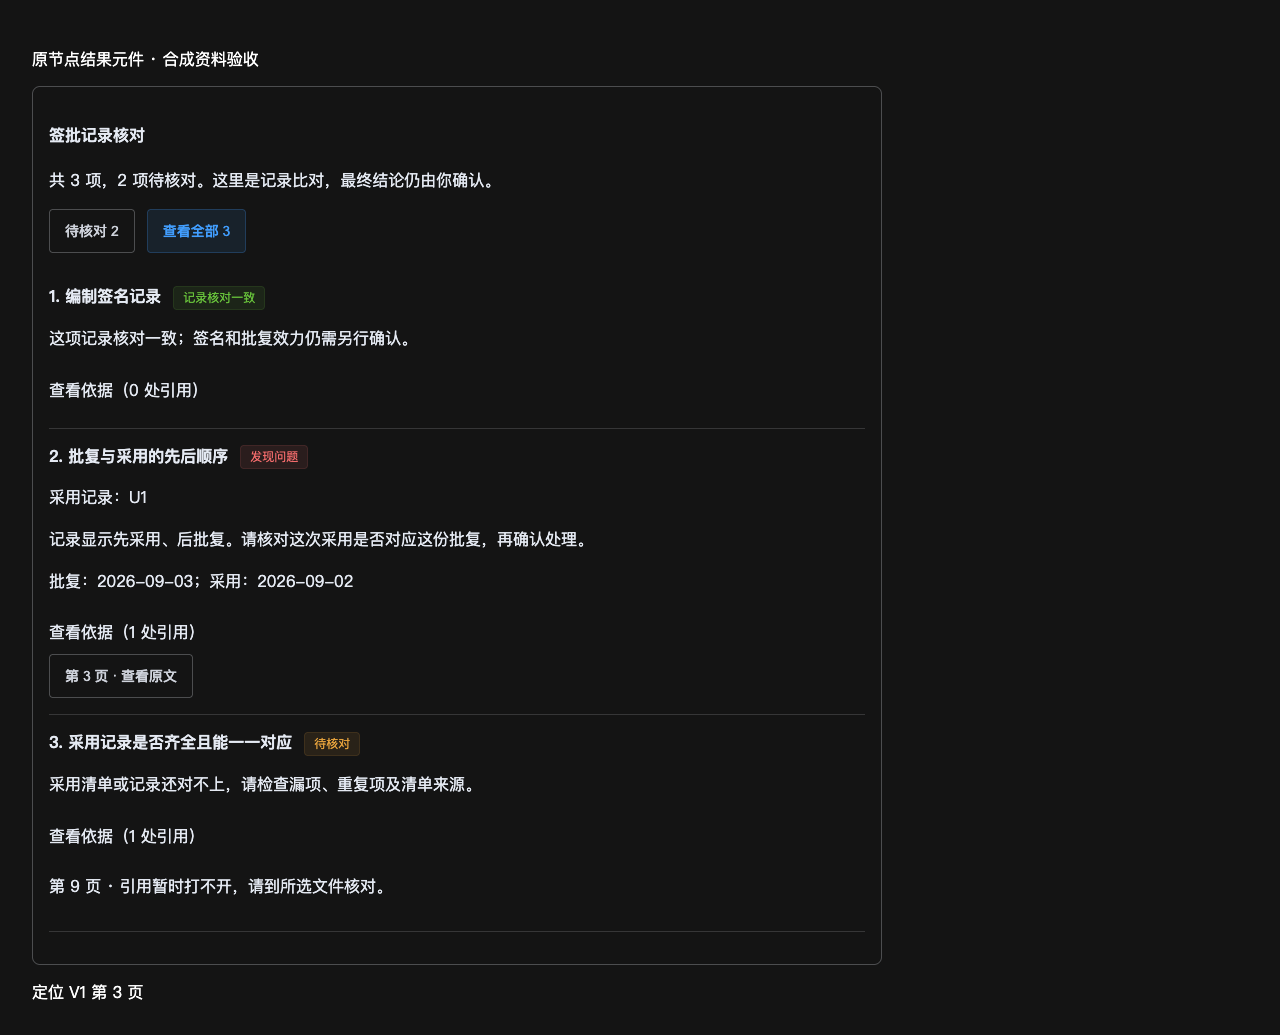
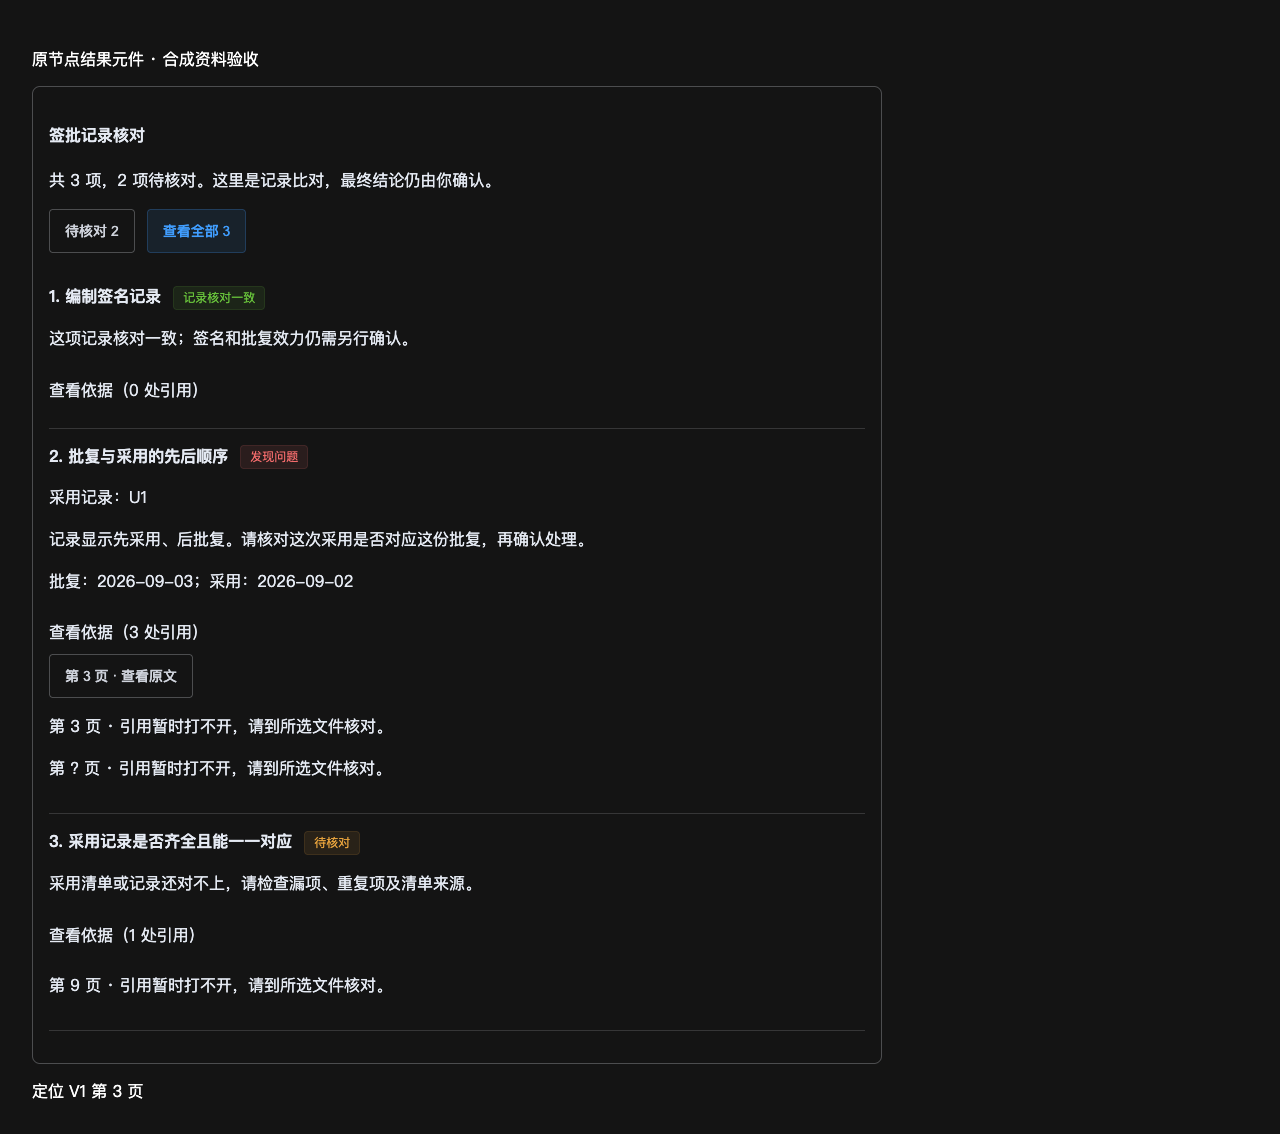
fix(lab): reject conflicting evidence locations and verify approval API projection

Changed region(s): [[0.0312, 0.0309, 0.4688, 0.8966], [0.0312, 0.9275, 0.125, 0.9894]]

diff --git a/frontend/src/views/AIReviewB/projectAnalysisConversation.ts b/frontend/src/views/AIReviewB/projectAnalysisConversation.ts
@@ -62,17 +62,26 @@ export const resolveProjectAnalysisEvidenceLink = (
   evidence: Record<string, unknown>,
   evidenceLinks: EvidenceLink[]
 ) => {
-  const evidenceLinkId = String(evidence.evidenceLinkId || '')
-  if (evidenceLinkId) {
-    const exactIdMatches = evidenceLinks.filter((item) => item.id === evidenceLinkId)
-    return exactIdMatches.length === 1 ? exactIdMatches[0] : undefined
-  }
-
-  const fileId = String(evidence.fileId || '')
-  const documentVersionId = String(evidence.documentVersionId || '')
-  const pageNo = Number(evidence.pageNo || 0)
+  const identity = (value: unknown) => (typeof value === 'string' ? value.trim() : '')
+  const evidenceLinkId = identity(evidence.evidenceLinkId)
+  const fileId = identity(evidence.fileId)
+  const documentVersionId = identity(evidence.documentVersionId)
+  if (!evidenceLinkId && !fileId && !documentVersionId) return undefined
+  const rawPage = evidence.pageNo
+  const pageNo = rawPage == null ? undefined : Number(rawPage)
+  if (
+    rawPage != null &&
+    ((typeof rawPage !== 'number' && !(typeof rawPage === 'string' && /^\d+$/.test(rawPage))) ||
+      !Number.isSafeInteger(pageNo) ||
+      Number(pageNo) < 1)
+  )
+    return undefined
+  // An ID is a selector, not permission to ignore a conflicting version or page.
+  if (evidenceLinkId && evidenceLinks.filter((item) => item.id === evidenceLinkId).length !== 1)
+    return undefined
   const quotedText = String(evidence.quotedText || '').trim()
   let candidates = evidenceLinks.filter((item) => {
+    if (evidenceLinkId && item.id !== evidenceLinkId) return false
     if (fileId && String(item.documentId || '') !== fileId) return false
     if (documentVersionId && String(item.documentVersionId || '') !== documentVersionId) {
       return false

diff --git a/frontend/src/views/AIReviewB/projectAnalysisConversation.test.ts b/frontend/src/views/AIReviewB/projectAnalysisConversation.test.ts
@@ -160,3 +160,32 @@ assert.match(resultCard, /emit\('open-evidence', resolved\)/)
     '二次合并产生了重复的分析卡片'
   )
 }
+
+for (const reference of [
+  {},
+  { quotedText: '第一页证据原文' },
+  { pageNo: 1 },
+  { evidenceLinkId: 'EV-1', documentVersionId: 'OTHER' },
+  { evidenceLinkId: 'EV-1', fileId: 'OTHER' },
+  { evidenceLinkId: 'EV-1', pageNo: 2 },
+  { evidenceLinkId: 'EV-1', quotedText: '另一份文件内容' },
+  ...[0, -1, 1.5, true, 'NaN', '', '1.5', '1e0', Number.NaN].map((pageNo) => ({
+    evidenceLinkId: 'EV-1',
+    pageNo
+  }))
+])
+  assert.equal(resolveProjectAnalysisEvidenceLink(reference, [evidenceLinks[0]]), undefined)
+assert.equal(
+  resolveProjectAnalysisEvidenceLink(
+    { evidenceLinkId: 'EV-1', documentVersionId: 'DV-1', pageNo: '1' },
+    evidenceLinks
+  )?.id,
+  'EV-1'
+)
+assert.equal(
+  resolveProjectAnalysisEvidenceLink({ evidenceLinkId: 'EV-1' }, [
+    evidenceLinks[0],
+    evidenceLinks[0]
+  ]),
+  undefined
+)

diff --git a/frontend/e2e/lab-rules/approval-checks.ts b/frontend/e2e/lab-rules/approval-checks.ts
@@ -10,7 +10,7 @@ createApp({ setup() {
     h('p', '原节点结果元件 · 合成资料验收'),
     h(ReviewApprovalChecks, { items: [
       { code: 'r11_signature_编制', result: 'passed' },
-      { code: 'r11_owner_approval_before_use', result: 'failed', usageId: 'U1', approvedAt: '2026-09-03', startedAt: '2026-09-02', evidenceRefs: [evidence] },
+      { code: 'r11_owner_approval_before_use', result: 'failed', usageId: 'U1', approvedAt: '2026-09-03', startedAt: '2026-09-02', evidenceRefs: [evidence, { evidenceLinkId: 'E1', documentVersionId: 'OTHER', pageNo: 3 }, {}] },
       { code: 'r11_usage_inventory', result: 'evidence_insufficient', evidenceRefs: [{ documentVersionId: 'UNKNOWN', pageNo: 9 }] }
     ], evidenceLinks: [evidence], onEvidence: (link: EvidenceLink) => { opened.value = `定位 ${link.documentVersionId} 第 ${link.pageNo} 页` } }),
     h('output', opened.value)

diff --git a/backend/tests/test_approval_workspace_projection.py b/backend/tests/test_approval_workspace_projection.py
@@ -1,0 +1,35 @@
+from copy import deepcopy
+
+from test_r11_approval_timing import timings
+from test_review_b_workspace import HEADERS, PROJECT_ID, assert_ok, client
+from test_review_b_workspace import setup_function as reset_workspace
+
+from libs.db.repository import repo
+from libs.review_orchestrator.runtime_tools import dispatch_runtime_tool
+
+
+def setup_function():
+    reset_workspace()
+
+
+def test_recorded_tool_result_reaches_workspace_and_audit_without_rewriting_history():
+    run = {'id': 'APPROVAL-HTTP', 'reviewRunId': 'APPROVAL-HTTP', 'projectId': PROJECT_ID,
+           'tenantId': 'TENANT-DEFAULT', 'nodeId': 11, 'status': 'waiting_human_review', 'revision': 1,
+           'createdAt': '2026-09-09 10:00:00', 'findingDrafts': []}
+    repo.state['review_runs'].append(run)
+    output = dispatch_runtime_tool({}, 'evaluate_construction_plan', timings('2026-09-03', '2026-09-02'))
+    record = {'id': 'APPROVAL-CHECK', 'reviewRunId': run['id'], 'projectId': PROJECT_ID,
+              'tenantId': 'TENANT-DEFAULT', 'nodeId': 11,
+              'atomicCheckResults': [{'atomicCheckId': 'AC-R11-01', 'toolResults': [output]}]}
+    repo.state['rule_check_results'].extend([record, dict(deepcopy(record), id='FOREIGN', tenantId='OTHER'),
+                                           dict(deepcopy(record), id='OLD', reviewRunId='OLDER')])
+    before = deepcopy((run, repo.state['rule_check_results']))
+    workspace = assert_ok(client.get(f'/api/projects/{PROJECT_ID}/inspection/nodes/11/review-workspace',
+                                    params={'reviewRunId': run['id']}, headers=HEADERS))
+    audit = assert_ok(client.get(f'/api/review-runs/{run["id"]}/audit-view', headers=HEADERS))
+    expected = output['facts']['approvalChecks']
+    assert workspace['activeReviewRun']['approvalChecks'] == expected
+    assert audit['reviewRun']['approvalChecks'] == expected
+    assert expected[-1]['result'] == 'failed'
+    assert expected[-1]['startedAt'] == '2026-09-02'
+    assert (run, repo.state['rule_check_results']) == before

diff --git a/docs/lab/current-work.md b/docs/lab/current-work.md
@@ -8,7 +8,7 @@
 | 文件 | 搜尋、跨頁批選、補充掛載、固定版本原文；頁碼選取、實際PDF頁數、API／任務／證據包範圍已接通 | 頁碼開關預設關閉；工具追加引用全路徑、大文件和真實案件重放驗收 | 待驗收／放行 |
 | 規則 | 工程草稿、複合條件表單、原子映射、示例與任務OCR試跑、通用與R19條件替代、修改前後對照、工程文本規則發布預覽與回滾入口（正常登入流程已驗） | 試跑對象選取已實作；任務映射與前端套用已接線，完整登入與真實案件驗收、剩餘路徑核查、結構化條件發布資格、發布視覺／鍵盤與真實案件驗收；自然語言草稿接口及原表單入口已接通，合成模型下正常登入生成／保存／試跑已驗；待真實模型品質驗收 | 待補齊／驗收 |
 | 交接 | 草稿、來源檢查、核驗API；原工作台建立入口與授權接收任務查詢；PostgreSQL跨連線核驗衝突實測通過；新任務交接輸入／依賴失效與工作程序按需載入、前端選用／需重驗提示已接線；正常登入選用與新任務切換、協作草稿建立到接收端已驗 | 真實原文／失敗恢復／視覺與鍵盤驗收、執行中途來源變動的PostgreSQL檢查點已驗；完整HTTP多程序併發與結果提交交易邊界驗收 | 待接線／驗收 |
-| 結果UI | 分層卡片、口語提示、完整清單、證據定位；已接入待辦首頁；空结果与执行状态分开，排队实机已验；系统能力未完成独立提示已接线；R11 簽批逐項口語清單已接原首頁並完成合成瀏覽器驗收 | 已登入種子工程選資料／人工保存已驗；仍需帶真實原文的完整案件及可用性驗收 | 待驗收 |
+| 結果UI | 分層卡片、口語提示、完整清單、證據定位；已接入待辦首頁；空结果与执行状态分开，排队实机已验；系统能力未完成独立提示已接线；R11 簽批逐項口語清單已接原首頁並完成合成瀏覽器／實際 API 回傳驗收，共用原文定位已補版本及頁碼矛盾阻擋 | 已登入種子工程選資料／人工保存已驗；仍需帶真實原文的完整案件及可用性驗收 | 待驗收 |
 | 工位導航 | 已接原工作台桌面節點樹及手機抽屜，保留工程總覽計數；工位待審查／待確認／待補正統計及篩選件數已接入並登入實測 | 具來源的跨節點需重驗只讀API已補，原工位需重驗／未知篩選已接線，正常回傳／需重驗／未知瀏覽器流程已驗，跨工程競態／錯工程／503 重試元件驗收及 PostgreSQL 另一程序改寫／刪除已驗，完整多 HTTP 服務程序驗收待補；手機依使用者要求暫緩 | 待驗收／增補 |
 | 證據側欄 | 本批复用原定位器增加inline模式，桌面並排、窄螢幕沿用彈窗 | 登入交接原文不可用／重試／返回焦點已驗；三頁實體合成PDF固定版本／恢復重試／翻頁已驗；中文／掃描與120頁合成文件前3頁、選取器／歷史版共用渲染已驗；真實案件、更大文件、縮放／跳頁與尺寸切換待驗 | 待驗收 |
 | R35–R37、R39 | 專用核心、凍結事實及實際綁定；R39指定文件對及有來源的聲明文件清單引用覆蓋、異常文件對及逐對來源可信度隔離已接線並合成驗證；PT乳化劑施加方法、完整文件內容、應用事件、簽核週期、跨清單版本對照及尚未應用有據排除已接線及合成驗證 | R39專用OCR入口與預設深度辨識已補（預設12頁嘗試，非全頁完成）；單對及多文件原文欄位到引用版次比對已接通；兩份實際PDF及本機封面OCR已核查，仍缺引用身份欄位；機構身份核實、複合方案及其他業務事實適配待補，標準化表測試不代表真實解析已完成；剩餘技術能力與完整規則驗收，三類pendingCapabilities仍阻擋發布 | 待補齊 |
@@ -765,3 +765,10 @@ flowchart LR
 - 原工作台新增可讀簽批清單，預設待核對／保留全部；未簽名、拒絕、晚批復及無法核對分開說明，沿用原文定位事件，前端不改判定。
 - 當前任務保存結果的相容投影已接線；142 項後端測試、100 個前端測試檔、型別／樣式檢查及 Chrome 元件深淺色／鍵盤／引用驗收通過。
 - 證據：`docs/lab/verification/2026-09-09-approval-readable.md`。本次是原元件的合成資料驗收，真實登入全流程仍待驗；未重跑全量後端，未宣稱整體達 90%。
+
+
+## 2026-09-09：簽批結果 API 與原文定位一致性
+
+- 已驗證保存工具結果透過原工作台／審計 API 回傳，排除其他租戶與舊任務且不改寫歷史。共用定位器修正相同 ID 但版本／頁碼／原文矛盾仍被開啟，以及空引用碰巧匹配單一證據的問題。
+- 6 項 API／投影測試、100 個前端測試檔、型別／lint／Ruff／monolith 通過；Chrome 增補錯誤版本／空引用不可點擊驗收。
+- 證據：`docs/lab/verification/2026-09-09-approval-link-integrity.md`。測試標頭與隔離資料不冒充真人帳號／真實案件，完整登入閉環仍待驗；整體未證明達 90%。

diff --git a/docs/lab/verification/2026-09-09-approval-link-integrity.md b/docs/lab/verification/2026-09-09-approval-link-integrity.md
@@ -1,0 +1,9 @@
+# 簽批結果 API 與引用一致性（2026-09-09）
+
+實際 TestClient 路由驗證：由 evaluate_construction_plan 產生結果，保存到 rule_check_results，再透過 review-workspace 與 audit-view 取得相同檢查結果、晚批復判定、時間及引用。排除其他租戶／舊任務記錄，保存的 run／rule records 不被改寫。這是隔離記憶體測試庫及測試身份標頭，不是正式登入帳號或真實工程案件。
+
+修復共用原文定位器：證據 ID 必須唯一，且仍須滿足引用提供的文件、版本、頁碼、原文條件；不能用相同 ID 蓋過矛盾條件。無文件／版本／證據 ID 的空引用、只有頁碼或原文，不再偶然匹配唯一證據。頁碼只接受正整數或純數字整數字串，拒絕布林、NaN、小數、零及負數。符合的舊 ID-only 引用維持可用，不創建新證據。
+
+6 項 API／投影測試、100 個前端測試檔、vue-tsc、改動 ESLint、Ruff 289／289、monolith 及 diff 檢查通過。Chrome 原簽批元件增補相同 ID／不同版本及空引用案例，只有正確版本頁碼可開原文；不可用提示、鍵盤事件、篩選件數及深淺色截圖保留。
+
+日誌：approval-link-integrity-http／frontend／browser，日期前綴同本檔。截圖更新於 browser/approval-checks-light.png 及 dark.png。未重新執行完整後端；最近全量仍 ec101add 的 4779 通過／75 跳過。實際登入、PDF 閱讀後返回事項、人工保存及真實案件品質仍待驗，整體未證明 90%。

diff --git a/docs/优化计划-焊接节点.md b/docs/优化计划-焊接节点.md
@@ -2065,3 +2065,10 @@ W1 之外已顺手完成：P9 R2 的 opinionSource 字段；F1 的 AI_FEEDBACK_R
 - 原工作台新增可讀簽批清單，預設待核對／保留全部；未簽名、拒絕、晚批復及無法核對分開說明，沿用原文定位事件，前端不改判定。
 - 當前任務保存結果的相容投影已接線；142 項後端測試、100 個前端測試檔、型別／樣式檢查及 Chrome 元件深淺色／鍵盤／引用驗收通過。
 - 證據：`docs/lab/verification/2026-09-09-approval-readable.md`。本次是原元件的合成資料驗收，真實登入全流程仍待驗；未重跑全量後端，未宣稱整體達 90%。
+
+
+## 2026-09-09：簽批結果 API 與原文定位一致性
+
+- 已驗證保存工具結果透過原工作台／審計 API 回傳，排除其他租戶與舊任務且不改寫歷史。共用定位器修正相同 ID 但版本／頁碼／原文矛盾仍被開啟，以及空引用碰巧匹配單一證據的問題。
+- 6 項 API／投影測試、100 個前端測試檔、型別／lint／Ruff／monolith 通過；Chrome 增補錯誤版本／空引用不可點擊驗收。
+- 證據：`docs/lab/verification/2026-09-09-approval-link-integrity.md`。測試標頭與隔離資料不冒充真人帳號／真實案件，完整登入閉環仍待驗；整體未證明達 90%。

diff --git a/docs/lab/README.md b/docs/lab/README.md
@@ -1520,3 +1520,10 @@ cd backend
 - 原工作台新增可讀簽批清單，預設待核對／保留全部；未簽名、拒絕、晚批復及無法核對分開說明，沿用原文定位事件，前端不改判定。
 - 當前任務保存結果的相容投影已接線；142 項後端測試、100 個前端測試檔、型別／樣式檢查及 Chrome 元件深淺色／鍵盤／引用驗收通過。
 - 證據：`docs/lab/verification/2026-09-09-approval-readable.md`。本次是原元件的合成資料驗收，真實登入全流程仍待驗；未重跑全量後端，未宣稱整體達 90%。
+
+
+## 2026-09-09：簽批結果 API 與原文定位一致性
+
+- 已驗證保存工具結果透過原工作台／審計 API 回傳，排除其他租戶與舊任務且不改寫歷史。共用定位器修正相同 ID 但版本／頁碼／原文矛盾仍被開啟，以及空引用碰巧匹配單一證據的問題。
+- 6 項 API／投影測試、100 個前端測試檔、型別／lint／Ruff／monolith 通過；Chrome 增補錯誤版本／空引用不可點擊驗收。
+- 證據：`docs/lab/verification/2026-09-09-approval-link-integrity.md`。測試標頭與隔離資料不冒充真人帳號／真實案件，完整登入閉環仍待驗；整體未證明達 90%。
